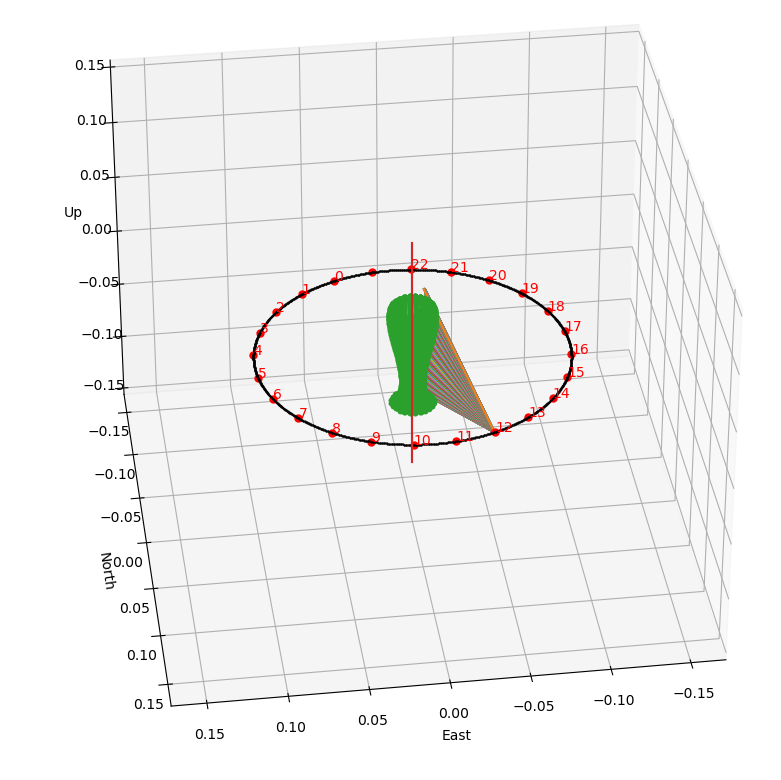
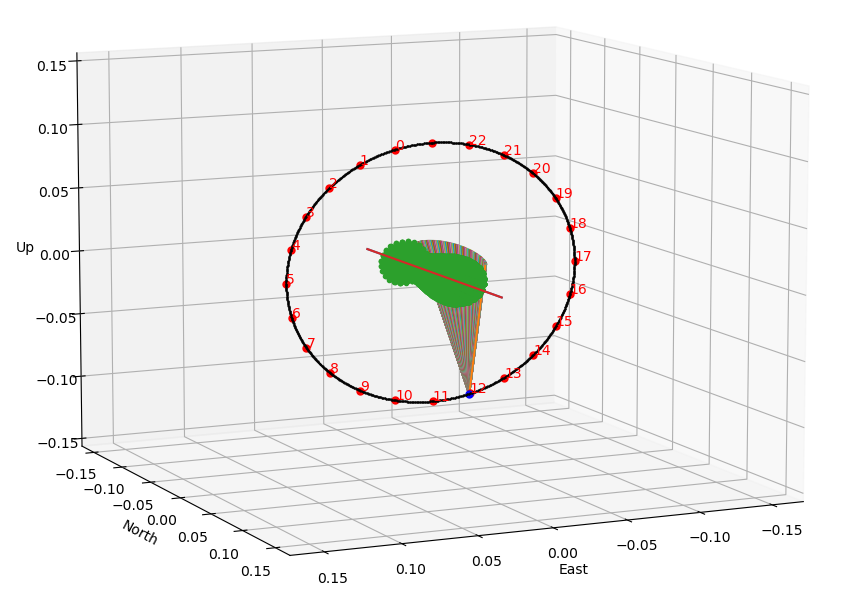
update docu and seasons

diff --git a/main.py b/main.py
@@ -185,7 +185,7 @@ def closestDistanceBetweenLines(a0,a1,b0,b1,clampAll=False,clampA0=False,clampA1
 
 
 
-def generateSundial(lat0,lon0,alt0,radius,noonOffset):
+def generateSundial(lat0,lon0,alt0,radius,noonOffset,season):
     """
     This functions generates the gnomon and the scale for a bernard's sundial 
     It takes in account the "Equation of time" for the observation point (lat0,lon0,alt0)
@@ -197,10 +197,17 @@ def generateSundial(lat0,lon0,alt0,radius,noonOffset):
     Input:
         lat0: latitude of observation point
         lon0: longditude of observation point
-        alt0: altitude of observation point        
+        alt0: altitude of observation point
+        radius: radius of the scale
+        noonOffset: turns the scale so the "noon" tick gets into different position.
+                    tweak here if the gnomon is to thick or to thin  
+        season:'fall' generates gnomon for 21.6. - 21.12.
+               'spring' generates gnomon for 21.12. - 21.6. 
+                    
     Output:
-    minScale:
-    hourScale:
+        minScale: the Minute ticks in enu
+        hourScale: the Hour ticks in enu
+        noonTick: the 12:00h noon tick in enu
         P0: ray start points (first is gnomon axis) (coordinate referens system: east north up)
         P1: ray end points (first is gnomon axis) (coordinate referens system: east north up)
         P: gnomons points (crs: enu)
@@ -220,13 +227,15 @@ def generateSundial(lat0,lon0,alt0,radius,noonOffset):
     timeZone=tz.gettz(tf.timezone_at(lng=lon0, lat=lat0)) # returns 'Europe/Berlin'
     
     
-    print("Sundial for lat:"+str(lat0)+" and  lon:"+ str(lon0)+" in timeZone"+str(timeZone))
     # define a dateTime
     
     
     
-    #date_base = datetime.datetime.now(pytz.UTC)
-    date_base = datetime.datetime(2000, 12, 21,12,0,tzinfo=pytz.UTC)
+    if season == 'spring':
+        date_base = datetime.datetime(2000, 12, 21,12,0,tzinfo=pytz.UTC)
+    if season == 'fall':
+        date_base = datetime.datetime(2000, 6, 21,12,0,tzinfo=pytz.UTC)
+        
     date_base = date_base - timeZone.utcoffset(date_base)
     # date = [date_base + datetime.timedelta(days=i) for i in range(0,182)] # day steps
     #date = [date_base + datetime.timedelta(hours=i) for i in range(0,1)] # hour steps
@@ -243,6 +252,7 @@ def generateSundial(lat0,lon0,alt0,radius,noonOffset):
                 date.append(newdate ) #hour steps
         
     
+    print("Sundial for lat:"+str(lat0)+" and  lon:"+ str(lon0)+" in timeZone "+str(timeZone.tzname(date_base))+ " with "+season+" gnomon")
 
 
     
@@ -334,8 +344,10 @@ def generateSundial(lat0,lon0,alt0,radius,noonOffset):
     
     minScale=np.array([x,y,z]).transpose()
     hourScale=np.array([x[0::60],y[0::60],z[0::60]]).transpose()
+    noonTick=minScale[index[0],:]
     
-    return minScale,hourScale,P0,P1,P
+    
+    return minScale,hourScale,P0,P1,P,noonTick
 
 
 
@@ -347,7 +359,7 @@ import numpy as np
 import matplotlib.pyplot as plt
 from mpl_toolkits.mplot3d import Axes3D
 # define the observers Point
-lat0=90#48.7758
+lat0=48.7758
 lon0=9.1829
 alt0=500
 
@@ -358,10 +370,10 @@ radius = 0.1 #meter
 noonOffset=0*15
 
 
+season='fall'#'spring'
 
 
-
-minScale,hourScale,P0,P1,P=generateSundial(lat0,lon0,alt0,radius,noonOffset)
+minScale,hourScale,P0,P1,P,noonTick=generateSundial(lat0,lon0,alt0,radius,noonOffset,season)
 
 
 
@@ -376,6 +388,7 @@ for i in range(0,182):
 
 
 ax.plot(hourScale[:,0],hourScale[:,1],hourScale[:,2],'.r',markersize=10)
+ax.plot(noonTick[0],noonTick[1],noonTick[2],'.b',markersize=10)
 
 for i in range(1,24):
     ax.text(hourScale[i,0],hourScale[i,1],hourScale[i,2], str(i-1), color='red')

diff --git a/README.md b/README.md
@@ -1,12 +1,14 @@
 # solardial
 
- a parametric sundial like, based on lat, lon of observer
+a parametric sundial after Bernhardt's concept, based on lat, lon of observer
 https://de.wikipedia.org/wiki/Bernhardtsche_Walze
 
 ## Example
 For Stuttgart, Germany:
 
-![For Stuttgart](https://github.com/pinguinonice/solardial/blob/master/docu/stuttgart.PNG)
+![For Stuttgart Spring 21.12.-21.6.](https://github.com/pinguinonice/solardial/blob/master/docu/stuttgart.PNG)
+
+![For Stuttgart Fall 21.6.-21.12.](https://github.com/pinguinonice/solardial/blob/master/docu/stuttgart_fall.PNG)
 
 For Equator
 
@@ -17,6 +19,3 @@ For Equator
 For Pole
 
 ![For Pole](https://github.com/pinguinonice/solardial/blob/master/docu/pol.PNG)
-
-
-
